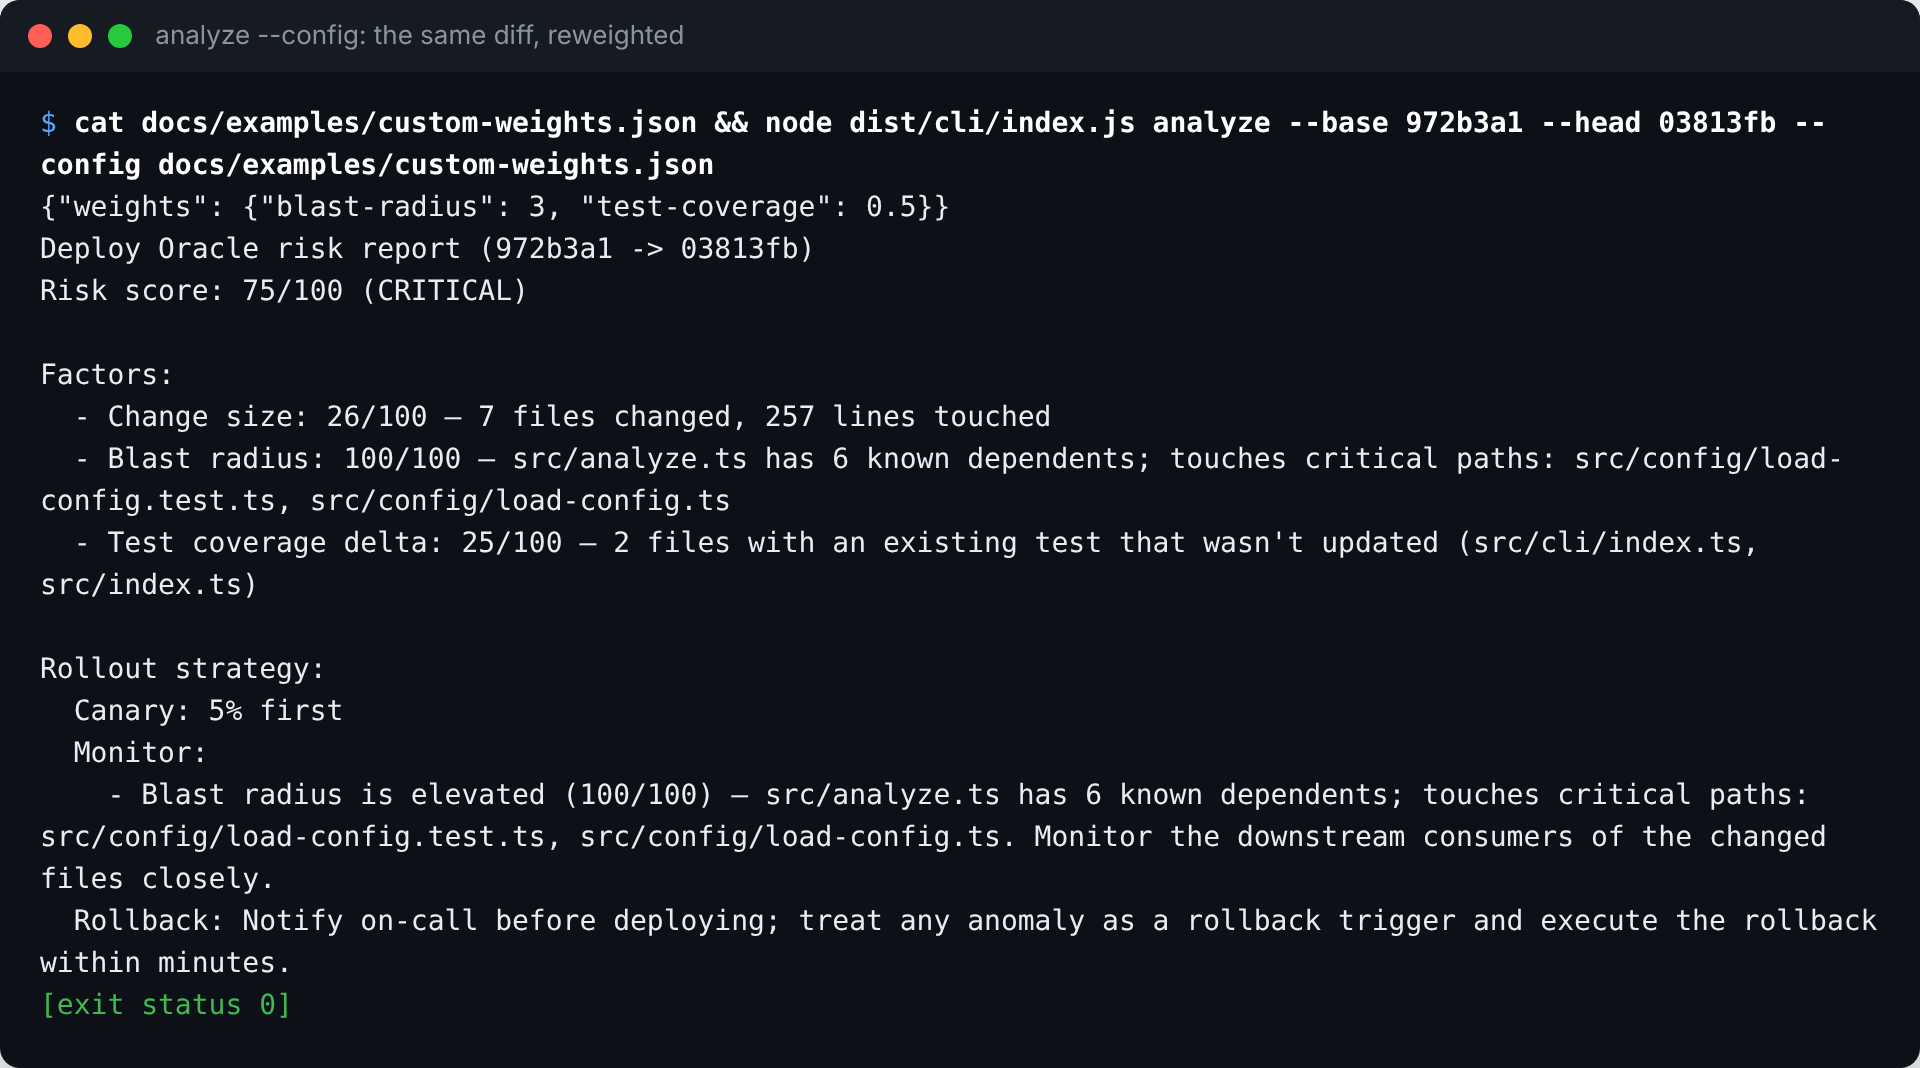
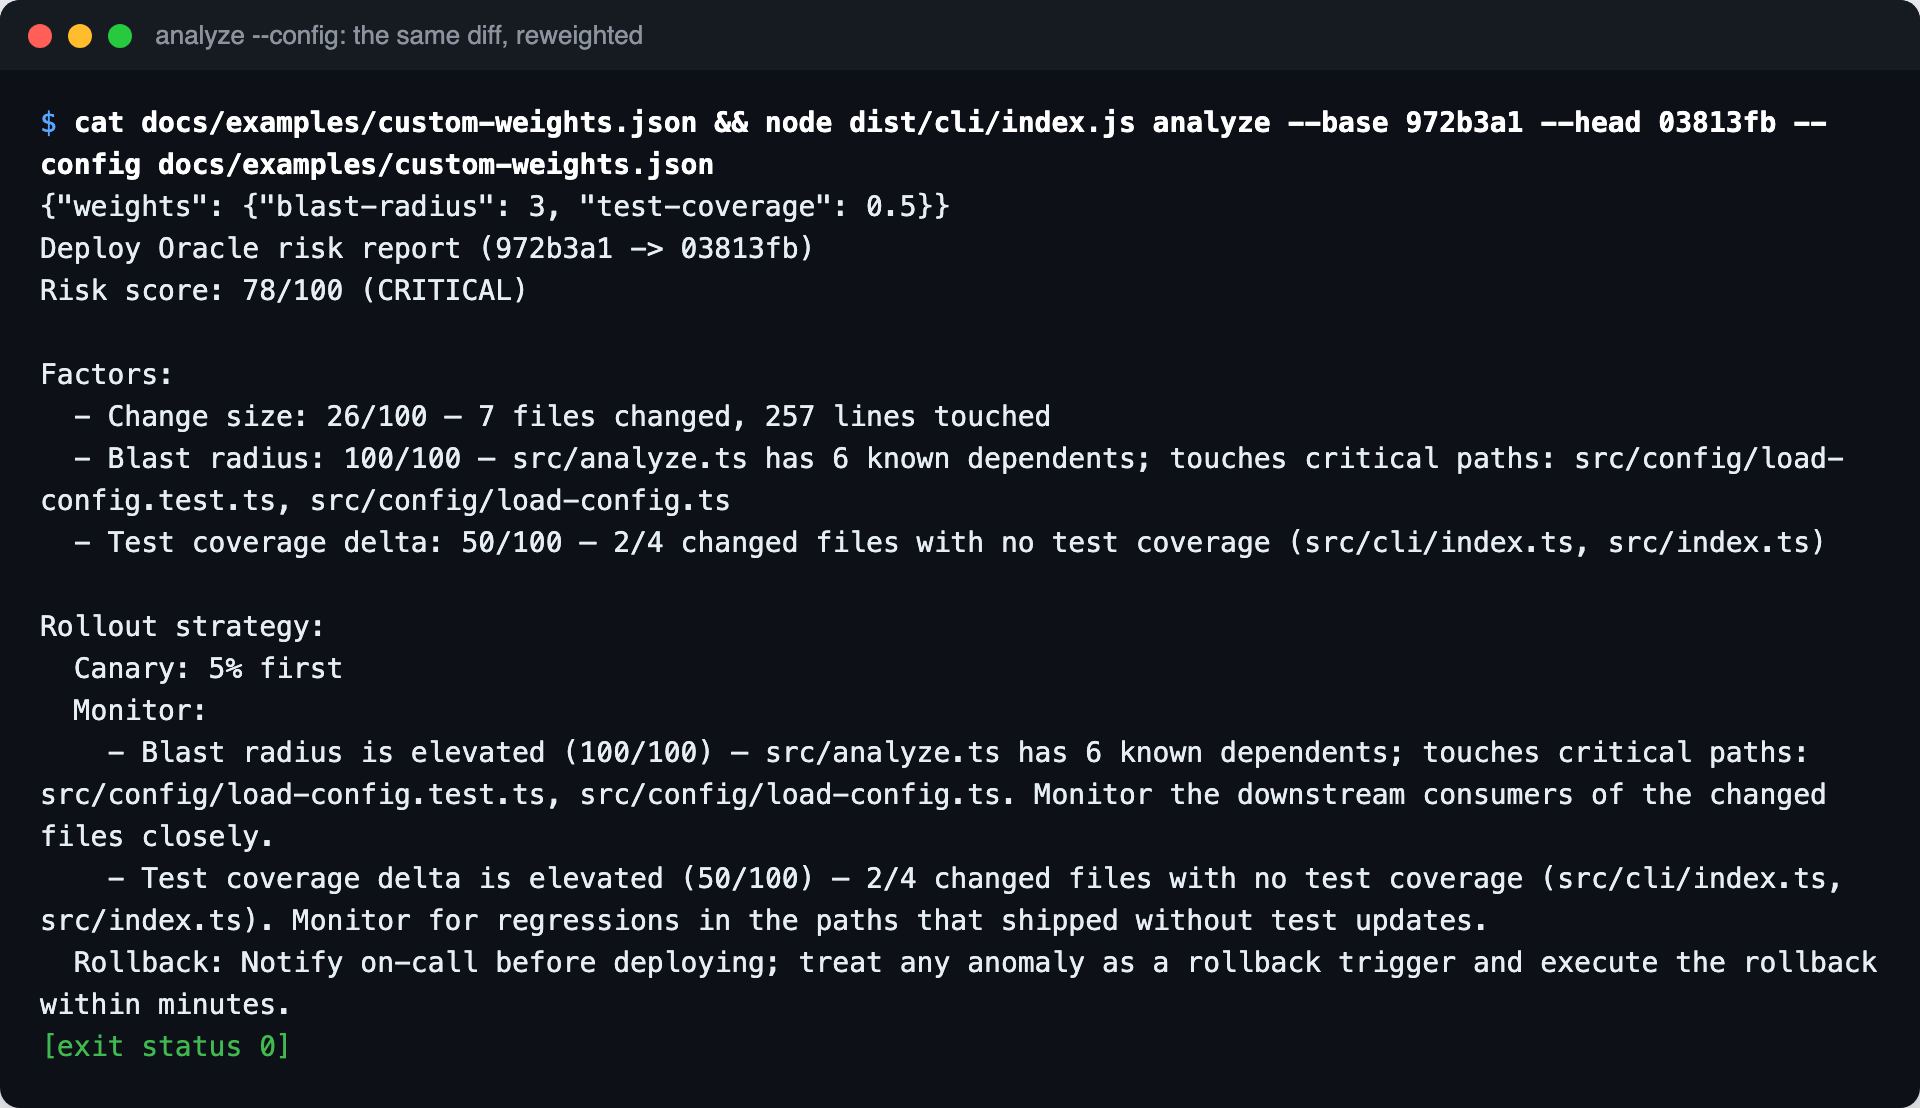
docs: update README and screenshots for ref-based scoring
The example output, PR comment, and custom-config screenshots all use
--head, so their scores shift now that test coverage is read from the
tree at --head instead of the working checkout. Regenerate them with
scripts/screenshots/generate.mjs and update the README text describing
the old working-tree limitation, which is now fixed for --head runs.

Changed region(s): [[0.0, 0.309, 0.9688, 0.9579], [0.0, 0.0927, 0.9688, 0.2781], [0.0938, 0.0, 0.3438, 0.0618]]

diff --git a/README.md b/README.md
@@ -26,13 +26,12 @@ locally (not a screenshot of a live GitHub comment):
 
 ![--help](docs/screenshots/04-help.png)
 
-![A config file reweighting the same diff from HIGH (50) to CRITICAL (75)](docs/screenshots/06-custom-config.png)
+![A config file reweighting the same diff from HIGH (59) to CRITICAL (78)](docs/screenshots/06-custom-config.png)
 
 Every image is produced by
 [`scripts/screenshots/generate.mjs`](scripts/screenshots/generate.mjs), which
 runs the command shown in each image and captures its real output and exit
-status. Scores depend on the checkout they were generated from (see the
-working-tree note under [Usage (CLI)](#usage-cli)).
+status (see the working-tree note under [Usage (CLI)](#usage-cli)).
 
 </details>
 
@@ -67,30 +66,32 @@ node dist/cli/index.js analyze --config risk-config.json
 Two things to know about what gets scored:
 
 - Without `--head`, the diff is `git diff <base>` against the working tree,
-  so untracked files are not included until they are `git add`ed.
-- The diff comes from `--base`/`--head`, but the import graph, the list of
-  existing tests and any coverage report are read from the files currently
-  checked out in `cwd`. Scoring an old range from a newer checkout can
-  therefore give a different blast-radius or test-coverage score than
-  scoring it with that head checked out (the Action always runs with the PR
-  head checked out).
+  and the import graph, the list of existing tests, and any coverage report
+  are also read from the working tree, so untracked files are not included
+  until they are `git add`ed.
+- With `--head`, every input — the diff, the import graph, the list of
+  existing tests, and any coverage report — is read from the committed tree
+  at that ref (via `git ls-tree`/`git show`), not from whatever happens to be
+  checked out in `cwd`. The same `--base`/`--head` range therefore scores the
+  same regardless of which checkout you run it from.
 
 Example output (`node dist/cli/index.js analyze --base 972b3a1 --head 03813fb`,
 run on this repository):
 
 ```
 Deploy Oracle risk report (972b3a1 -> 03813fb)
-Risk score: 50/100 (HIGH)
+Risk score: 59/100 (HIGH)
 
 Factors:
   - Change size: 26/100 — 7 files changed, 257 lines touched
   - Blast radius: 100/100 — src/analyze.ts has 6 known dependents; touches critical paths: src/config/load-config.test.ts, src/config/load-config.ts
-  - Test coverage delta: 25/100 — 2 files with an existing test that wasn't updated (src/cli/index.ts, src/index.ts)
+  - Test coverage delta: 50/100 — 2/4 changed files with no test coverage (src/cli/index.ts, src/index.ts)
 
 Rollout strategy:
   Canary: 25% first
   Monitor:
     - Blast radius is elevated (100/100) — src/analyze.ts has 6 known dependents; touches critical paths: src/config/load-config.test.ts, src/config/load-config.ts. Monitor the downstream consumers of the changed files closely.
+    - Test coverage delta is elevated (50/100) — 2/4 changed files with no test coverage (src/cli/index.ts, src/index.ts). Monitor for regressions in the paths that shipped without test updates.
   Rollback: Keep the previous version ready to restore; roll back at the first sign of regression rather than waiting out the full canary window.
 ```
 
@@ -138,7 +139,7 @@ Example PR comment body for the same diff (output of
 `node scripts/screenshots/print-pr-comment.mjs 972b3a1 03813fb`):
 
 > ### Deploy Oracle risk report
-> **Risk score:** 50/100 (HIGH)
+> **Risk score:** 59/100 (HIGH)
 >
 >
 > _Diffing `972b3a1` → `03813fb`_
@@ -147,12 +148,13 @@ Example PR comment body for the same diff (output of
 > | --- | --- | --- |
 > | Change size | 26/100 | 7 files changed, 257 lines touched |
 > | Blast radius | 100/100 | src/analyze.ts has 6 known dependents; touches critical paths: src/config/load-config.test.ts, src/config/load-config.ts |
-> | Test coverage delta | 25/100 | 2 files with an existing test that wasn't updated (src/cli/index.ts, src/index.ts) |
+> | Test coverage delta | 50/100 | 2/4 changed files with no test coverage (src/cli/index.ts, src/index.ts) |
 >
 > **Rollout strategy**
 > - Canary: 25% first
 > - Monitor:
 >   - Blast radius is elevated (100/100) — src/analyze.ts has 6 known dependents; touches critical paths: src/config/load-config.test.ts, src/config/load-config.ts. Monitor the downstream consumers of the changed files closely.
+>   - Test coverage delta is elevated (50/100) — 2/4 changed files with no test coverage (src/cli/index.ts, src/index.ts). Monitor for regressions in the paths that shipped without test updates.
 > - Rollback: Keep the previous version ready to restore; roll back at the first sign of regression rather than waiting out the full canary window.
 
 The action edits this same comment (matched via a hidden HTML marker) on
